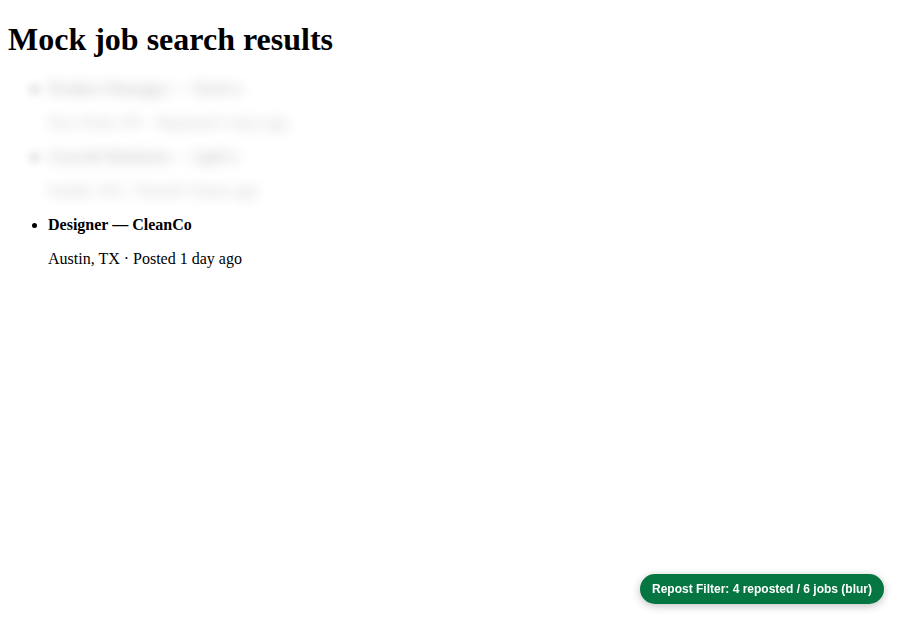
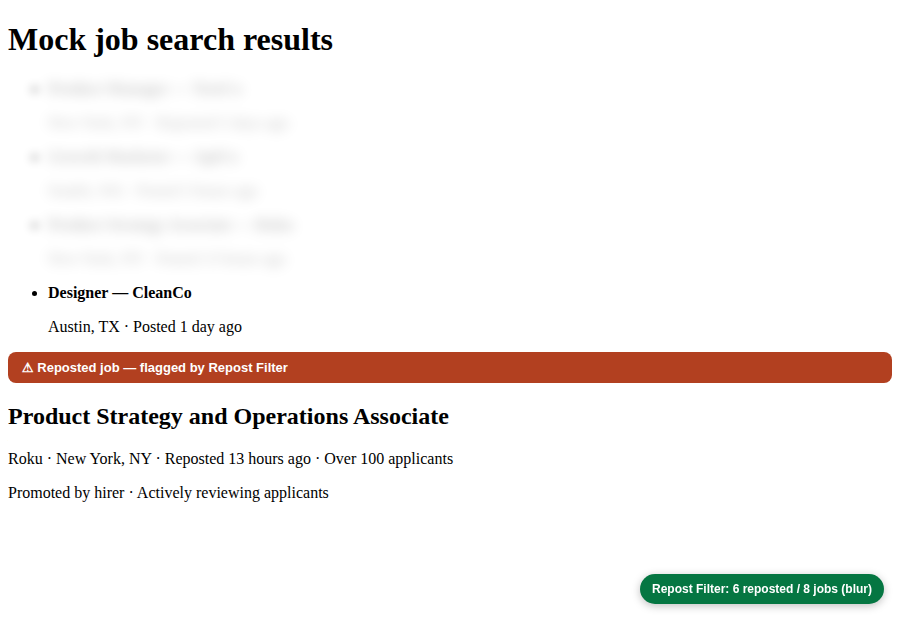
Flag reposts from the job detail pane and remember them
The detail pane is where LinkedIn reliably shows 'Reposted N hours ago',
even when the list card only says 'Posted'. Read it whenever a job is
open: show a warning banner on the pane, filter the job's list card, and
persist the job id in chrome.storage.local (capped at 3000) so it stays
filtered in future searches. Verified end-to-end in headless Chromium,
including persistence across pages.

Claude-Session: https://claude.ai/code/session_01F9twtuRSbXj11FR63ws6Mj

diff --git a/linkedin-repost-filter/content.js b/linkedin-repost-filter/content.js
@@ -113,6 +113,91 @@ function isReposted(card) {
   return REPOST_RE.test(getCardText(card));
 }
 
+// ---------------------------------------------------------------------------
+// Detail-pane detection. The list cards usually say only "Posted", but the
+// detail pane you open by clicking a job spells out "Reposted N hours ago".
+// Whenever that pane is on screen we read it, flag the job, blur its list
+// card, and remember the job id so it stays filtered in future searches.
+// ---------------------------------------------------------------------------
+
+const DETAIL_SELECTORS = [
+  ".job-details-jobs-unified-top-card__container--two-pane",
+  ".jobs-unified-top-card",
+  ".job-details-jobs-unified-top-card",
+  ".jobs-details__main-content",
+  ".jobs-search__job-details",
+  "[class*='job-details']"
+];
+
+// The job currently open in the detail pane, from the URL LinkedIn keeps in
+// sync (?currentJobId=… on search pages, /jobs/view/<id> on full pages).
+function currentJobId() {
+  let m = /[?&]currentJobId=(\d+)/.exec(location.search);
+  if (m) return m[1];
+  m = /\/jobs\/view\/(\d+)/.exec(location.pathname);
+  if (m) return m[1];
+  return null;
+}
+
+function findDetailPane() {
+  for (const sel of DETAIL_SELECTORS) {
+    const el = document.querySelector(sel);
+    if (el) return el;
+  }
+  return null;
+}
+
+function ensureDetailBanner(pane, reposted, jobId) {
+  let banner = document.querySelector(".lrf-detail-banner");
+  if (!reposted) {
+    if (banner) banner.remove();
+    return;
+  }
+  // Re-create when the open job changed so the banner never goes stale.
+  if (banner && banner.getAttribute("data-lrf-job") !== String(jobId)) {
+    banner.remove();
+    banner = null;
+  }
+  if (!banner) {
+    banner = document.createElement("div");
+    banner.className = "lrf-detail-banner";
+    banner.setAttribute("data-lrf-job", String(jobId));
+    banner.textContent = "⚠ Reposted job — flagged by Repost Filter";
+    pane.prepend(banner);
+  }
+}
+
+function scanDetailPane() {
+  const pane = findDetailPane();
+  if (!pane) return;
+  const jobId = currentJobId();
+
+  // Only read the pane's leading text (the top card with title/company/
+  // "Reposted N ago"), not the whole job description, to avoid false hits.
+  const text = (pane.textContent || "").slice(0, 2500);
+  const reposted = REPOST_RE.test(text);
+
+  ensureDetailBanner(pane, reposted, jobId || "unknown");
+
+  if (reposted && jobId && !repostedIds.has(jobId)) {
+    repostedIds.add(jobId);
+    if (DEBUG) console.log(`[LRF] detail pane says job ${jobId} is reposted — remembering it`);
+    persistIds();
+  }
+}
+
+// Remember flagged job ids across pages/sessions so a repost spotted once
+// stays filtered everywhere.
+let persistTimer = null;
+function persistIds() {
+  if (persistTimer) return;
+  persistTimer = setTimeout(() => {
+    persistTimer = null;
+    // Cap what we store; oldest ids fall off first.
+    chrome.storage.local.set({ knownRepostedIds: Array.from(repostedIds).slice(-3000) });
+  }, 500);
+}
+
 function applyToCard(card) {
   if (!isReposted(card)) {
     // Card text may have changed (e.g. re-render) — clear any prior marking.
@@ -151,6 +236,8 @@ function collectCards() {
 }
 
 function scan() {
+  scanDetailPane();
+
   const cards = collectCards();
   cards.forEach((card) => {
     card.setAttribute(PROCESSED_ATTR, "true");
@@ -261,6 +348,15 @@ function listenForApiSignal() {
 
 function init() {
   listenForApiSignal();
+
+  // Restore job ids flagged as reposted in earlier sessions.
+  chrome.storage.local.get({ knownRepostedIds: [] }, (stored) => {
+    (stored.knownRepostedIds || []).forEach((id) => repostedIds.add(String(id)));
+    if (DEBUG && repostedIds.size) {
+      console.log(`[LRF] restored ${repostedIds.size} remembered reposted job ids`);
+    }
+    scheduleScan();
+  });
 
   chrome.storage.sync.get(DEFAULTS, (stored) => {
     settings = { ...DEFAULTS, ...stored };

diff --git a/linkedin-repost-filter/content.css b/linkedin-repost-filter/content.css
@@ -26,6 +26,19 @@
   filter: none !important;
 }
 
+/* Banner shown at the top of the job detail pane when the open job is a repost. */
+.lrf-detail-banner {
+  display: block;
+  background: #b24020;
+  color: #fff;
+  font-family: -apple-system, BlinkMacSystemFont, "Segoe UI", Roboto, Helvetica, Arial, sans-serif;
+  font-size: 13px;
+  font-weight: 600;
+  padding: 8px 14px;
+  border-radius: 8px;
+  margin: 8px 0;
+}
+
 /* On-page status badge — visible proof the filter is running. */
 #lrf-badge {
   position: fixed;

diff --git a/linkedin-repost-filter/README.md b/linkedin-repost-filter/README.md
@@ -62,6 +62,15 @@ This API-based detection is the key trick: the rendered list often hides the
 "Reposted" label (it only appears in the detail pane), but the underlying data
 still contains it — so we read the data, not the pixels.
 
+### Detail-pane detection & memory
+
+The most reliable signal of all: when you click a job, the detail pane spells
+out "Reposted N hours ago". The extension reads that pane, shows a red
+"⚠ Reposted job" banner on it, blurs/hides the job's card in the list, and
+**remembers the job id** (in `chrome.storage.local`, capped at 3000 ids) — so
+once a repost is spotted it stays filtered in every future search, even where
+the list card only says "Posted".
+
 It's purely **visual** — it never clicks, scrolls, or interacts with jobs on
 your behalf, so it doesn't touch how LinkedIn ranks or feeds you listings.
 
